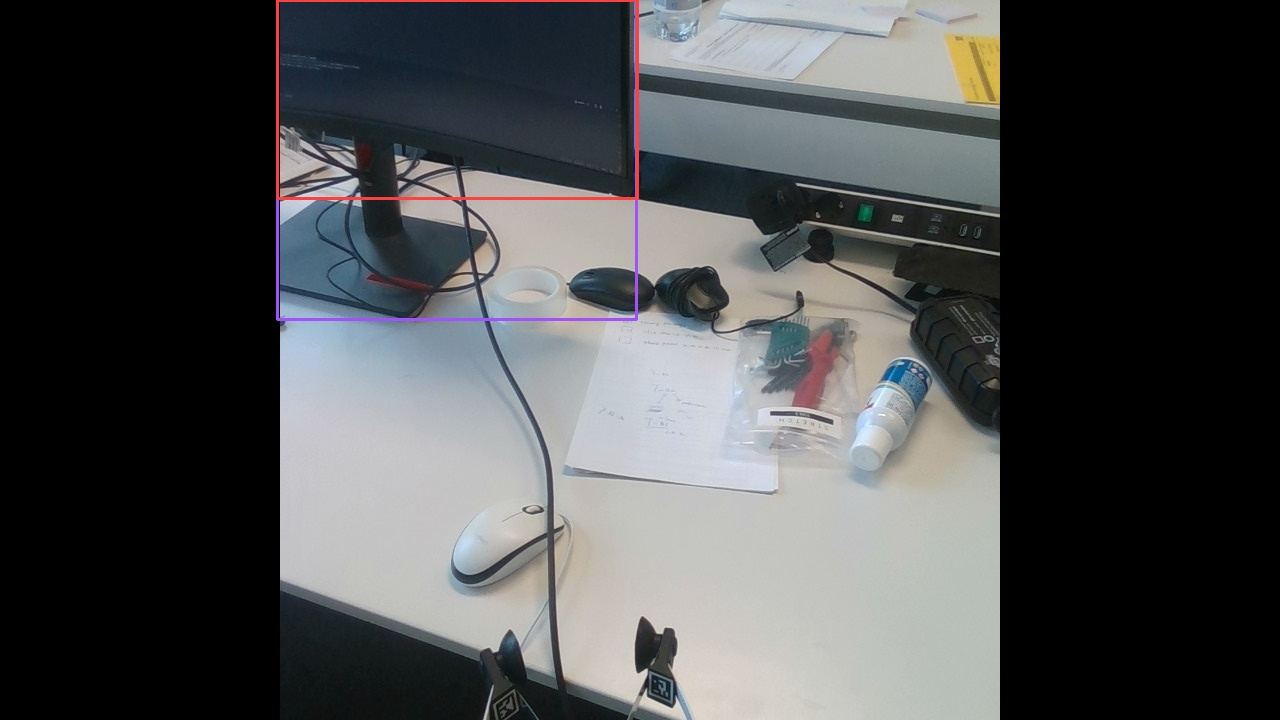
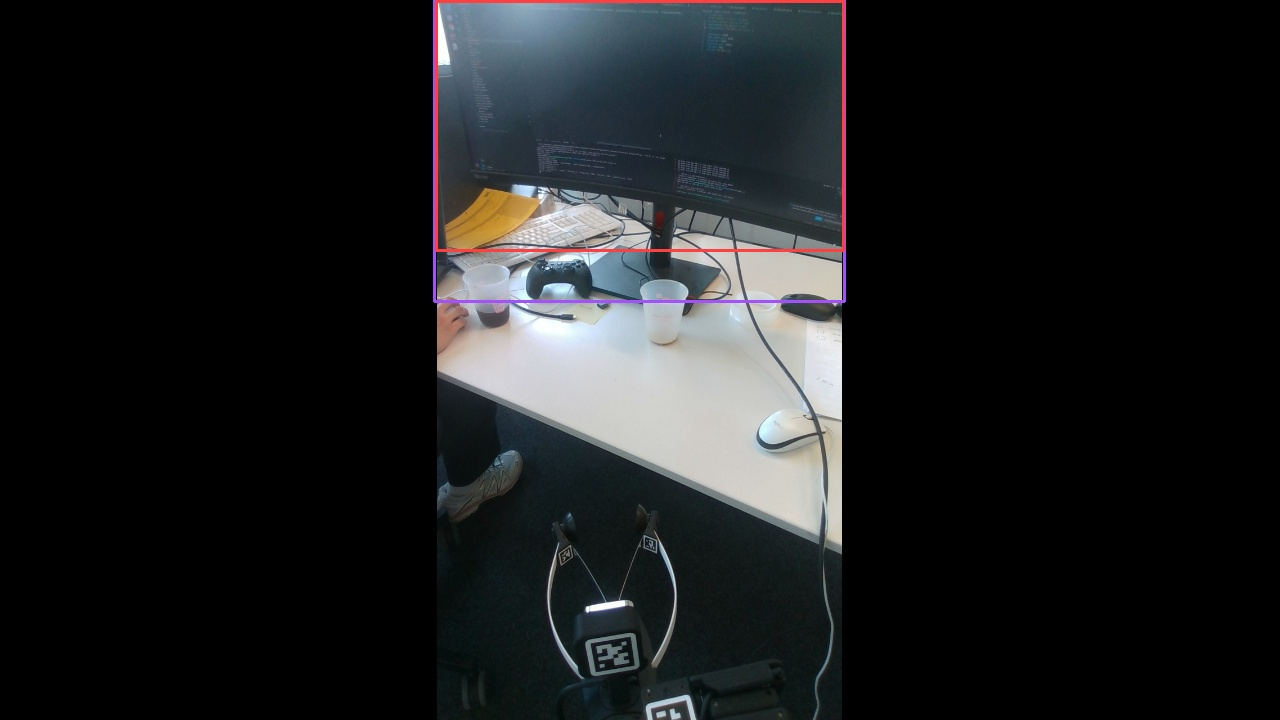
upload the results

diff --git a/policy/placement_controller.py b/policy/placement_controller.py
@@ -38,6 +38,67 @@ from omegaconf import OmegaConf
 import matplotlib.pylab as plt
 import copy 
 
+def predict_depth(depth_model, rgb_origin, intr, input_size = (616, 1064)):
+    intrinsic = [intr[0, 0], intr[1, 1],
+                 intr[0, 2], intr[1, 2]]  # fx, fy, cx, cy
+    # ajust input size to fit pretrained model
+    # keep ratio resize
+    # input_size = (544, 1216) # for convnext model
+    h, w = rgb_origin.shape[:2]
+    scale = min(input_size[0] / h, input_size[1] / w)
+    rgb = cv2.resize(rgb_origin, (int(w * scale), int(h * scale)),
+                     interpolation=cv2.INTER_LINEAR)
+    # remember to scale intrinsic, hold depth
+    intrinsic = [intrinsic[0] * scale, intrinsic[1] *
+                 scale, intrinsic[2] * scale, intrinsic[3] * scale]
+    # padding to input_size
+    padding = [123.675, 116.28, 103.53]
+    h, w = rgb.shape[:2]
+    pad_h = input_size[0] - h
+    pad_w = input_size[1] - w
+    pad_h_half = pad_h // 2
+    pad_w_half = pad_w // 2
+    rgb = cv2.copyMakeBorder(rgb, pad_h_half, pad_h - pad_h_half,
+                             pad_w_half, pad_w - pad_w_half, cv2.BORDER_CONSTANT, value=padding)
+    pad_info = [pad_h_half, pad_h - pad_h_half, pad_w_half, pad_w - pad_w_half]
+
+    # normalize
+    mean = torch.tensor([123.675, 116.28, 103.53]).float()[:, None, None]
+    std = torch.tensor([58.395, 57.12, 57.375]).float()[:, None, None]
+    rgb = torch.from_numpy(rgb.transpose((2, 0, 1))).float()
+    rgb = torch.div((rgb - mean), std)
+    rgb = rgb[None, :, :, :].cuda()
+
+    ###################### canonical camera space ######################
+    # inference
+    with torch.no_grad():
+        pred_depth, confidence, output_dict = depth_model.inference({
+                                                                    'input': rgb})
+
+    # un pad
+    pred_depth = pred_depth.squeeze()
+    confidence = confidence.squeeze()
+    pred_depth = pred_depth[pad_info[0]: pred_depth.shape[0] -
+                            pad_info[1], pad_info[2]: pred_depth.shape[1] - pad_info[3]]
+    confidence = confidence[pad_info[0]: confidence.shape[0] -
+                            pad_info[1], pad_info[2]: confidence.shape[1] - pad_info[3]]
+
+    # upsample to original size
+    pred_depth = torch.nn.functional.interpolate(
+        pred_depth[None, None, :, :], rgb_origin.shape[:2], mode='nearest').squeeze()
+    confidence = torch.nn.functional.interpolate(
+        confidence[None, None, :, :], rgb_origin.shape[:2], mode='nearest').squeeze()
+    ###################### canonical camera space ######################
+
+    # de-canonical transform
+    # 1000.0 is the focal length of canonical camera
+    canonical_to_real_scale = intrinsic[0] / 1000.0
+    pred_depth = pred_depth * canonical_to_real_scale  # now the depth is metric
+    pred_depth = torch.clamp(pred_depth, 0, 5)
+    pred_depth = pred_depth.cpu().numpy()
+    confidence = confidence.cpu().numpy()
+    return pred_depth, confidence
+
 INTRINSICS_HEAD = np.array([
     [910.68, 0, 626.58],
     [0, 911.09, 377.44],
@@ -45,42 +106,54 @@ INTRINSICS_HEAD = np.array([
     ])
 
 class HephaisbotPlacementController(ControllerBase):
-    def __init__(self, cfg=None):
+    def __init__(self, cfg=None, use_monodepth=True, dummy_place=False):
         robot_calib = DataUtils.load_json("./config_base_cam.json")
         T_base_headcam = np.array(robot_calib["T_base_headcam"]).reshape(4,4)
         self.T_base_headcam = T_base_headcam
         self.raw_intr = INTRINSICS_HEAD
         super().__init__(cfg=cfg)   
         print("Done with controller initialization!")     
-    
-        model_affordance_cls = registry.get_affordance_model("GeoL_net_v9")
-        self.model_affordance = model_affordance_cls(
-            input_shape=(3, 720, 1280),
-            target_input_shape=(3, 128, 128),
-            intrinsics=INTRINSICS_HEAD,
-        ).to("cuda")
-        state_affordance_dict = torch.load("data_and_weights/ckpt_11.pth", map_location="cpu")
-        self.model_affordance.load_state_dict(state_affordance_dict["ckpt_dict"])
+        self.use_monodepth = use_monodepth
+        self.dummy_place = dummy_place
         
-        # diffuser model
-        guidance = CompositeGuidance()
-        with open("config/baseline/diffusion.yaml", "r") as file:
-            yaml_data = yaml.safe_load(file)
-        config_diffusion = OmegaConf.create(yaml_data)
-        model_diffuser_cls = PoseDiffusionModel
-        self.model_diffuser = model_diffuser_cls(config_diffusion.model).to("cuda")
-        state_diffusion_dict = torch.load("data_and_weights/ckpt_93.pth", map_location="cpu")
-        self.model_diffuser.load_state_dict(state_diffusion_dict["ckpt_dict"])
-        self.model_diffuser.nets["policy"].set_guidance(guidance)
+        if not self.dummy_place:
+            model_affordance_cls = registry.get_affordance_model("GeoL_net_v9")
+            self.model_affordance = model_affordance_cls(
+                input_shape=(3, 720, 1280),
+                target_input_shape=(3, 128, 128),
+                intrinsics=INTRINSICS_HEAD,
+            ).to("cuda")
+            state_affordance_dict = torch.load("data_and_weights/ckpt_11.pth", map_location="cpu")
+            self.model_affordance.load_state_dict(state_affordance_dict["ckpt_dict"])
 
+            
+            # diffuser model
+            guidance = CompositeGuidance()
+            with open("config/baseline/diffusion.yaml", "r") as file:
+                yaml_data = yaml.safe_load(file)
+            config_diffusion = OmegaConf.create(yaml_data)
+            model_diffuser_cls = PoseDiffusionModel
+            self.model_diffuser = model_diffuser_cls(config_diffusion.model).to("cuda")
+            state_diffusion_dict = torch.load("data_and_weights/ckpt_93.pth", map_location="cpu")
+            self.model_diffuser.load_state_dict(state_diffusion_dict["ckpt_dict"])
+            self.model_diffuser.nets["policy"].set_guidance(guidance)
+
+        if use_monodepth:
+            self.depth_model = torch.hub.load(
+                'yvanyin/metric3d', 'metric3d_vit_large', pretrain=True)
+            self.depth_model.cuda().eval()
+        else:
+            self.depth_model = None
 
     def inference(self, T_object_hand, obj_mesh, height_offset=0.12, cut_mode="center", verbose=True, debug=False):
         color, depth, intr, T_calib = self._subscribe_image(cut_mode)
-
-        depth = cv2.resize(depth, (0, 0), fx=0.5, fy=0.5, interpolation=cv2.INTER_NEAREST)
-        depth = cv2.resize(depth, (0, 0), fx=2, fy=2, interpolation=cv2.INTER_NEAREST)
-        
-        points, scene_ids = DataUtils.backproject(depth, intr, depth<5, False)
+        if self.use_monodepth:
+            print("Using Metric3D model for depth prediction")
+            img_mask = color.sum(-1) > 0
+            img_mask = cv2.erode(img_mask.astype(np.uint8), np.ones((25, 25)))
+            depth, _ = predict_depth(self.depth_model, color, intr)
+            depth[~img_mask] = 0
+            
         points_scene, scene_ids = DataUtils.backproject(
             depth,
             intr,
@@ -90,9 +163,9 @@ class HephaisbotPlacementController(ControllerBase):
         colors_scene = color[scene_ids[0], scene_ids[1]] / 255.0
         mesh_obj =  copy.deepcopy(obj_mesh)
         T_base_headcam = self.T_base_headcam @ T_calib
-
+        
         ##### Dummy inference by manual selection ####
-        if debug:
+        if debug and self.dummy_place:
             place_pos_samples = DataUtils.pick_points_in_viewer(
                 points_scene, colors_scene
             )
@@ -110,7 +183,7 @@ class HephaisbotPlacementController(ControllerBase):
                 depth_image=depth,
                 obj_mesh=obj_mesh,
                 obj_target_size = [0.8, 0.2, 0.01], # H W D
-                intrinsics=INTRINSICS_HEAD,
+                intrinsics=intr,
                 target_name=["Monitor"],
                 direction_text=["Front"],
                 use_vlm=False,
@@ -200,12 +273,12 @@ if __name__ == "__main__":
         "config_network": "./network_config.yaml"
     }
     controller_cfg = edict(controller_cfg)
-    controller = HephaisbotPlacementController(controller_cfg)
+    controller = HephaisbotPlacementController(controller_cfg, use_monodepth=True)
 
     while True:
         obj_mesh = o3d.io.read_triangle_mesh("data_and_weights/mesh/keyboard/keyboard_0001_black/mesh.obj")
         obj_mesh.compute_vertex_normals()
-        controller.inference(T_object_hand, obj_mesh, height_offset=0, cut_mode="center")
+        controller.inference(T_object_hand, obj_mesh, height_offset=0, cut_mode="full")
    
     # controller.run(
     #     instruction="pickup thing",

diff --git a/policy/demo_placement_controller.py b/policy/demo_placement_controller.py
@@ -9,7 +9,7 @@ import numpy as np
 # import torch
 # import cv2
 from scipy.spatial.transform import Rotation as SciR
-
+import matplotlib.pyplot as plt
 INTRINSICS_HEAD = np.array([
     [910.68, 0, 626.58],
     [0, 911.09, 377.44],
@@ -25,8 +25,9 @@ class DemoPlacementController(ControllerBase):
         super().__init__(cfg=cfg)   
         print("Done with controller initialization!")     
     
-    def inference(self, T_object_hand, height_offset=0.12, cut_mode="center", verbose=True):
+    def inference(self, T_object_hand, height_offset=0.12, cut_mode="full", verbose=True):
         color, depth, intr, T_calib = self._subscribe_image(cut_mode)
+        print(intr)
         points, scene_ids = DataUtils.backproject(depth, intr, depth<5, False)
         points_scene, scene_ids = DataUtils.backproject(
             depth,
@@ -119,3 +120,4 @@ if __name__ == "__main__":
 # scp hello-robot@192.168.1.2:/home/hello-robot/stretch_manip/config_base_cam.json /home/cvai/hanzhi_ws/egoprior-diffuser/policy_server
 # export PYTHONPATH="${PYTHONPATH}:$PWD"
 # export PYTHONPATH="${PYTHONPATH}:/usr/lib/python3/dist-packages"     
+# hostname -I

diff --git a/policy/controller_base.py b/policy/controller_base.py
@@ -49,6 +49,7 @@ class ControllerBase:
 
     def _subscribe_image(self, cut_mode="center"):
         color, depth, timestamp = self.camera_subscriber.recv_image_and_depth()
+        # cv2.imwrite("color_raw.png", color)
         color, depth, intr, T_calib = preprocess_stretch_head_image(color, depth, self.raw_intr, cut_mode=cut_mode)
         # depth[depth > 1.5] == 0
         color = color[..., [2,1,0]].copy()
@@ -85,3 +86,4 @@ class ControllerBase:
         self.action_publisher.pub_keypoints([1], "home")
         self.flag_socket.recv()    
         
+

diff --git a/Geo_comb/full_pipeline.py b/Geo_comb/full_pipeline.py
@@ -825,7 +825,7 @@ def full_pipeline_v2(
         )
         colors_no_obj_scene = color_no_obj[scene_no_obj_idx[0], scene_no_obj_idx[1]]
         pcd_no_obj_scene = visualize_points(points_no_obj_scene, colors_no_obj_scene)  
-
+        
         # 4 dataset to the mapper
         dataset_mapper = pred_one_case_dataset(
             pcd_no_obj_scene,
